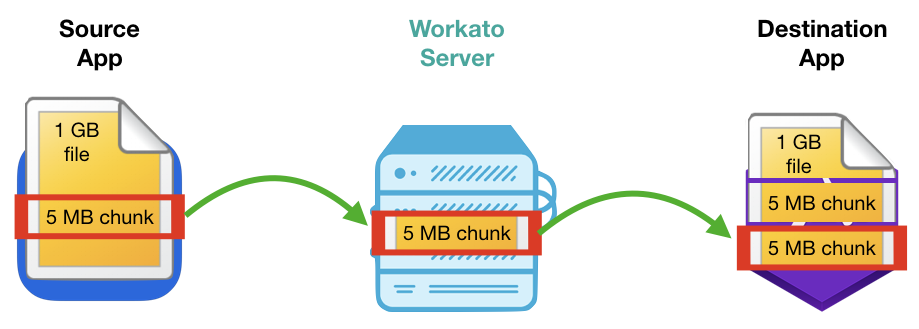
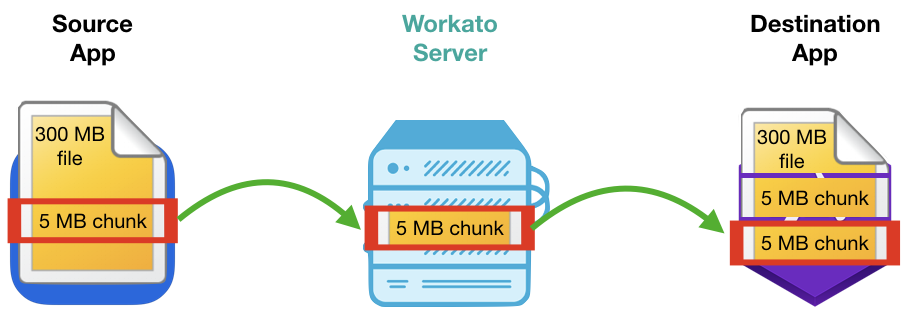
Change streaming limit to 300MB

diff --git a/features/file-streaming.md b/features/file-streaming.md
@@ -4,12 +4,12 @@ date: 2018-05-23 06:00:00 Z
 ---
 
 # File Streaming
-Enterprises often have the need to transfer large files of gigabyte-size from one system to another. For example, copying daily database dumps from Amazon S3 to SFTP file storage.
+Enterprises often have the need to transfer large files of a few hundred megabytes from one system to another. For example, copying daily database dumps from Amazon S3 to SFTP file storage.
 
-Traditional approaches to file transfer usually limit the file size or require large server for processing. With Workato, the `File streaming` mechanism allows you to transfer files of unlimited size between different systems easily, without any setup.
+Traditional approaches to file transfer usually have a small file size limt or require large server for processing. With Workato, the `File streaming` mechanism allows you to transfer large files between different systems easily, without any setup.
 
 ## 1. How it works
-When transferring a large file, Workato automatically breaks the file into smaller chunks, then sends one chunk at a time to the destination. This allows each chunk to easily fit in Workato's server memory. As a result, the same server can transfer files of any size.
+When transferring a large file, Workato automatically breaks the file into smaller chunks, then sends one chunk at a time to the destination. This allows each chunk to easily fit in Workato's server memory. As a result, the same server can technically transfer files of any size.
 
 The following diagram illustrates how this works:
 
@@ -18,6 +18,6 @@ The following diagram illustrates how this works:
 ## 2. How to use it
 Streaming is enabled by default in several Workato file connectors (e.g. Amazon S3, SFTP, On-prem file, etc), and requires no setup.
 
-Whenever you transfer a file from one system to another, Workato will use streaming if possible. If a connector does not support streaming at the moment, there will be hints in the recipe stating the maximum file size you can transfer.
+Whenever you transfer a file from one system to another, Workato will use streaming if possible. Note that currently, there is a [job](https://docs.workato.com/recipes/jobs.html) runtime limit of 2000 seconds, so the maximum file size you can transfer is about 300MB.
 
-Try using [this sample recipe](https://www.workato.com/recipes/696348#recipe) to transfer a file of at least 100MB from Amazon S3 to SFTP. Streaming is used under the hood here.
+Try using [this sample recipe](https://www.workato.com/recipes/696348#recipe) to transfer a file of up to 300MB from Amazon S3 to SFTP. Streaming is used under the hood here.
